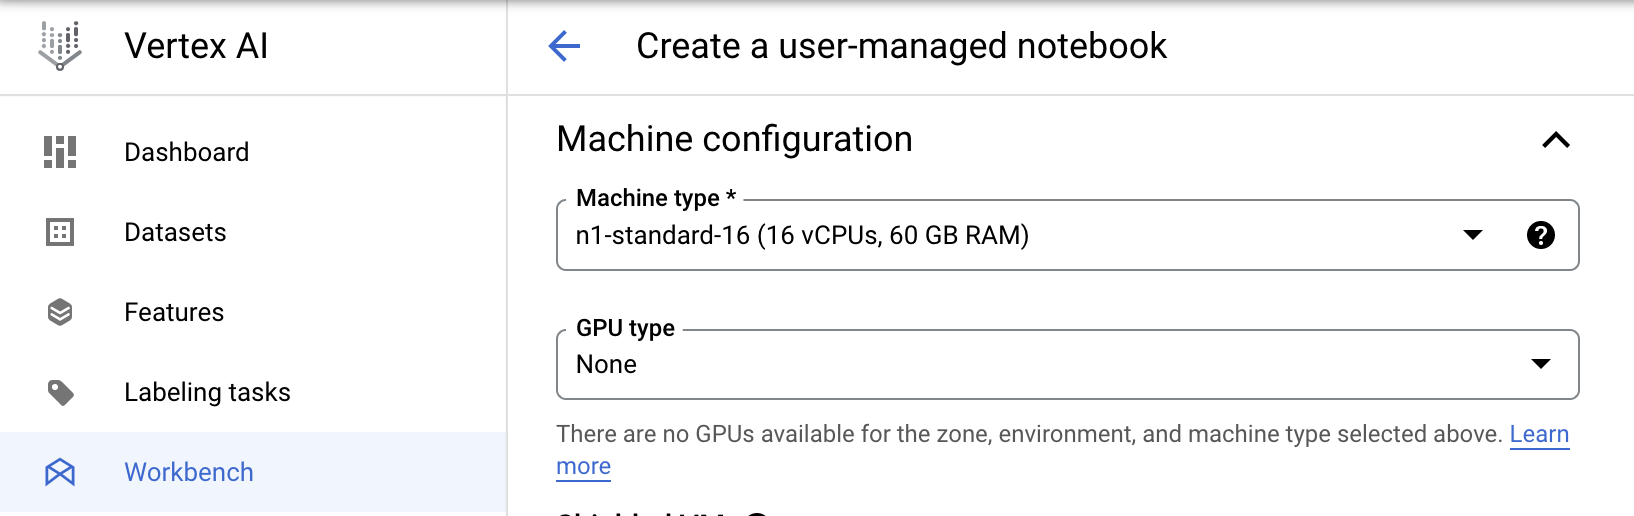
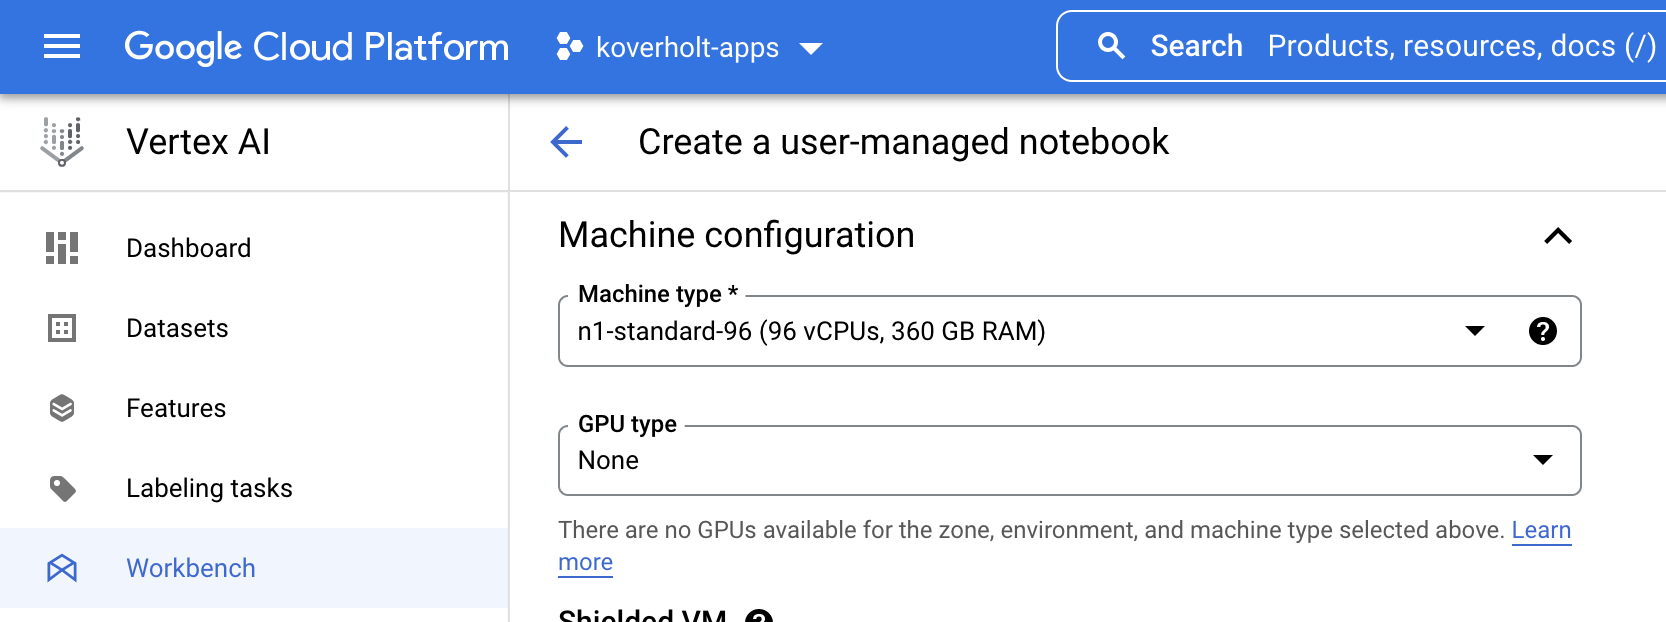
Update notebooks and docs

diff --git a/docs/medium.md b/docs/medium.md
@@ -24,8 +24,8 @@ You can click on the `Create` button to create your notebook, or you can
 customize your machine type and other settings by clicking on the
 `Advanced Options` button.
 
-For this example, we'll use a `n1-standard-64` notebook instance that has 16
-vCPUs and 60 GB RAM by setting the following machine configuration in the
+For this example, we'll use a `n1-standard-96` notebook instance that has 96
+vCPUs and 360 GB RAM by setting the following machine configuration in the
 `Advanced Options` page:
 
 <img src="/images/medium-scale-advanced-options.png" width="600px" style="display: block; margin-left: auto; margin-right: auto;" alt="Specifying a machine configuration in GCP Vertex AI Workbench">
